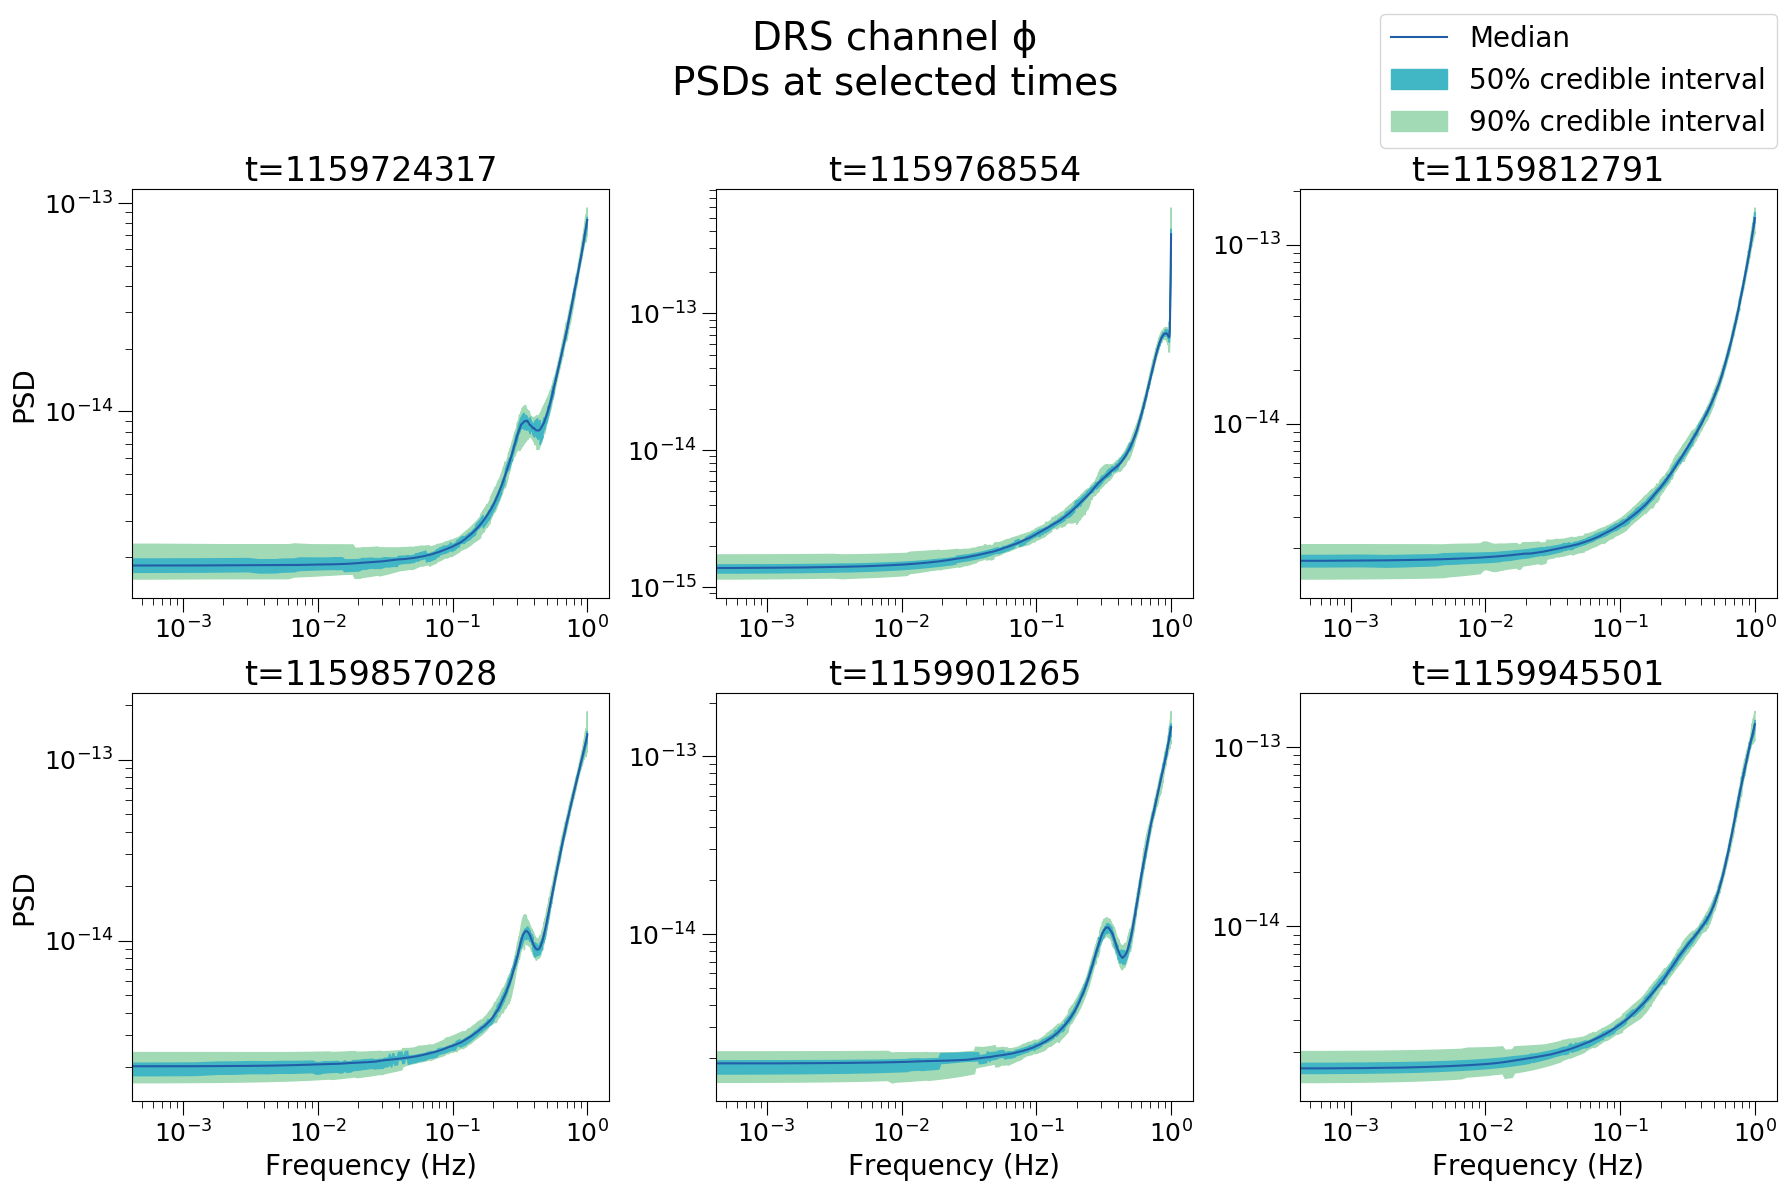
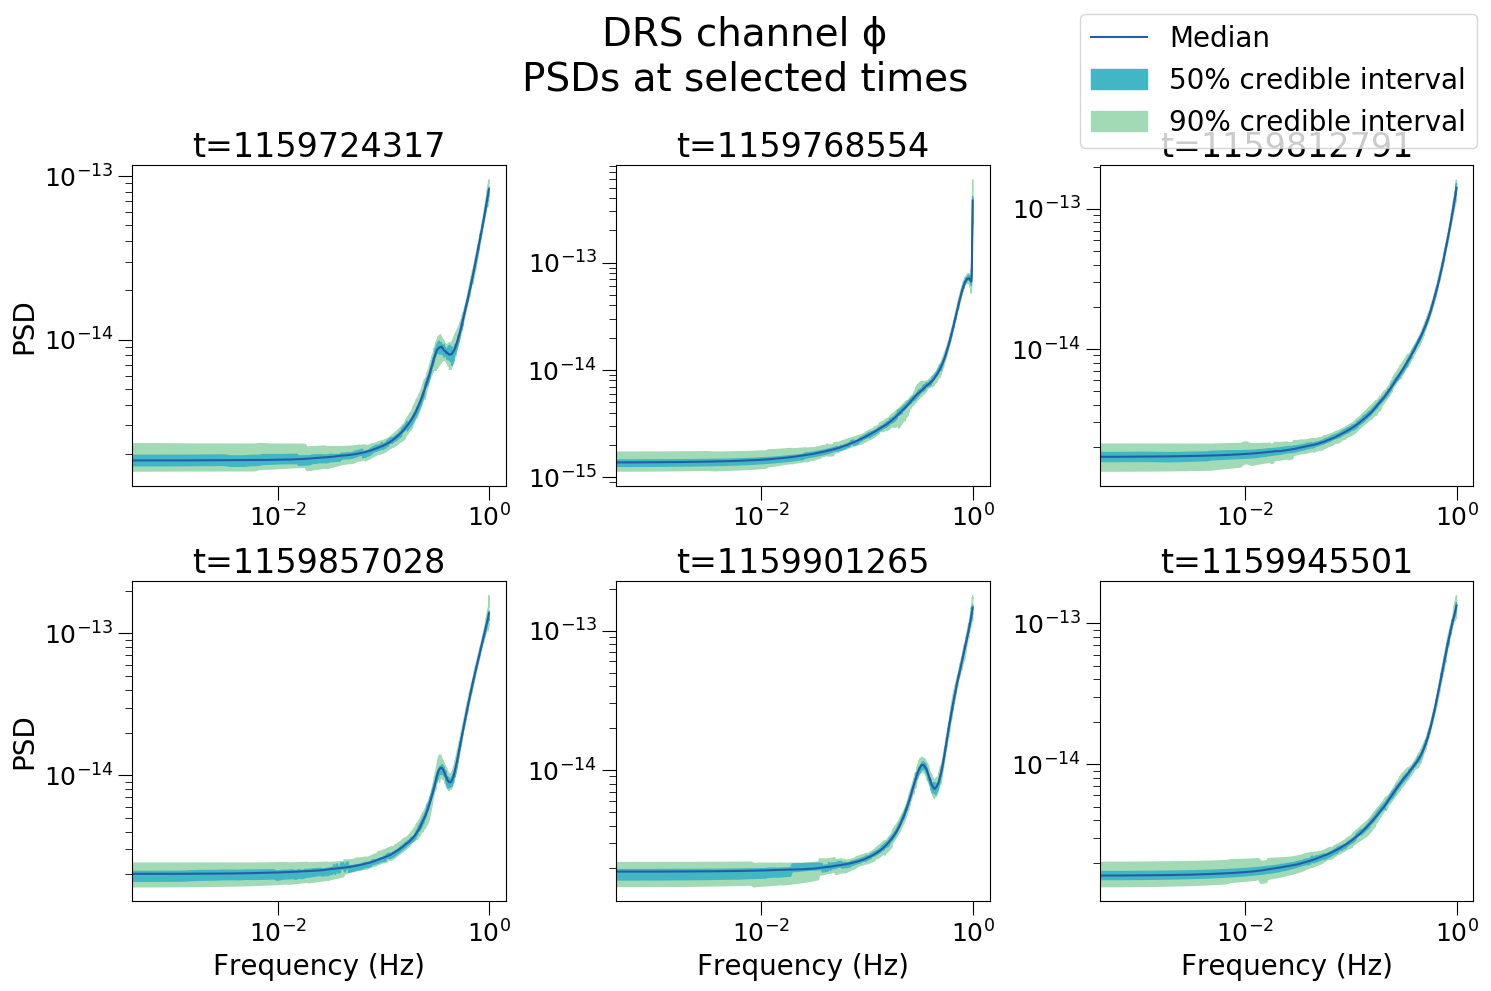
added gridplot to fslice

diff --git a/src/fslice.py b/src/fslice.py
@@ -3,6 +3,7 @@
 import os
 import argparse
 from glob import glob
+import configparser
 
 import numpy as np
 import pandas as pd
@@ -32,6 +33,10 @@ scaled_offset = 0.0025 * spine_pad # Scaled spine_pad
 def main():
     # Argument parser
     args = utils.add_parser('Frequency slice analysis.')
+
+    # Plot config parser
+    config = configparser.ConfigParser()
+    config.read('src/plotconfig.ini')
     
     # Initialize run objects; skip missing directories
     runs = utils.init_runs(args.runs)
@@ -54,6 +59,12 @@ def main():
         
         p = utils.Progress(run.channels, 'Plotting frequency slices...')
         for c, channel in enumerate(run.channels):
+            fig = utils.gridplot(fslice, df, channel, frequencies,
+                    f'{run.mode.upper()} channel {channel}\n' + \
+                            'Power at selected frequencies',
+                    f'Days elapsed since\n{run.start_date} UTC', 'Power', 
+                    config)
+            '''
             # Automatically create grid of axes
             nrows = int(np.floor(float(len(frequencies)) ** 0.5))
             ncols = int(np.ceil(1. * len(frequencies) / nrows))
@@ -87,6 +98,7 @@ def main():
             order = [0, 2, 1]
             fig.legend([handles[i] for i in order], [labels[i] for i in order])
             fig.tight_layout(rect=[0, 0, 1, 0.92])
+            '''
             
             # Save plot
             plot_file = os.path.join(run.plot_dir, f'fslice{c}.png')
@@ -245,7 +257,7 @@ def main():
             # Update progress
             p.update(c)
 
-def fslice(fig, ax, df, run, channel, frequency):
+def fslice(fig, ax, df, channel, frequency):
     '''
     Plots power at a specific frequency over time.
 
@@ -255,11 +267,15 @@ def fslice(fig, ax, df, run, channel, frequency):
       df : DataFrame, the full summary output from import_psd.py
       run : Run object
       channel : str, the channel to investigate
-      frequency : float, the frequency along which to slice the PSD
+      frequency : float, the approximate frequency along which to slice the PSD
     '''
+    # Get exact frequency along which to slice
+    frequency = utils.get_exact_freq(df, frequency)
+    freq_text = f'%s mHz' % float('%.3g' % (frequency * 1000.))
+
     # Isolate given channel
     time_series = df.loc[channel].xs(frequency, level='FREQ')
-    days_elapsed = run.gps2day(time_series.index) # Convert to days elapsed
+    days_elapsed = utils.gps2day(time_series.index) # Convert to days elapsed
     
     # Plot 90% credible interval
     ax.fill_between(days_elapsed, time_series['CI_90_LO'], 
@@ -272,6 +288,9 @@ def fslice(fig, ax, df, run, channel, frequency):
     # Plot median
     ax.plot(days_elapsed, time_series['MEDIAN'], 
             label='Median', color='#88419d')
+
+    # Axis title
+    ax.set_title(freq_text)
             
     # Vertical axis limits
     med = time_series['MEDIAN'].median()

diff --git a/src/utils.py b/src/utils.py
@@ -2,9 +2,11 @@ import sys
 from glob import glob
 import os
 import argparse
+import configparser
 
 import numpy as np
 import pandas as pd
+import matplotlib.pyplot as plt
 from astropy.time import Time
 
 class Progress:
@@ -149,6 +151,11 @@ def init_runs(paths):
     return runs
 
 
+def gps2day(gps_times):
+    ''' Convert numpy array of GPS times to days elapsed since start of list '''
+    return (gps_times - gps_times[0]) / (60*60*24)
+
+
 def get_exact_freq(summary, approx_freqs):
     '''
     Takes an approximate input frequency and returns the closest measured
@@ -191,4 +198,47 @@ def add_parser(description, comparison=True, title=False):
         args.runs = glob(f'data{os.sep}*{os.sep}*{os.sep}')
     
     return args
+
+
+def gridplot(fn, df, channel, iterable, suptitle, xlabel, ylabel, config):
+    # Automatically create grid of axes
+    nrows = int(np.floor(float(len(iterable)) ** 0.5))
+    ncols = int(np.ceil(1. * len(iterable) / nrows))
+    # Set up figure
+    fig = plt.figure(
+            figsize=(config.getfloat('Placement', 'fig_x_scale') * ncols, 
+            config.getfloat('Placement', 'fig_y_scale') * nrows))
+    fig.suptitle(suptitle, fontsize=config.getfloat('Font', 'fig_title_size'))
+    
+    # Subplots
+    for i, item in enumerate(iterable):
+        # Set up subplot
+        ax = fig.add_subplot(nrows, ncols, i+1)
+        
+        # Plot function
+        fn(fig, ax, df, channel, item)
+        
+        # Subplot config
+        ax.set_title(ax.get_title(),
+                fontsize=config.getfloat('Font', 'subplot_title_size'))
+        if i >= len(iterable) - ncols: # x axis label on bottom plots only
+            ax.set_xlabel(xlabel, 
+                    fontsize=config.getfloat('Font', 'ax_label_size'))
+        if i % ncols == 0: # y axis label on left plots only
+            ax.set_ylabel(ylabel, 
+                    fontsize=config.getfloat('Font', 'ax_label_size'))
+        ax.tick_params(axis='both', which='major',
+                labelsize=config.getfloat('Font', 'tick_label_size'),
+                length=config.getfloat('Tick','major_tick_length'))
+        ax.tick_params(axis='both', which='minor', 
+                length=config.getfloat('Tick', 'minor_tick_length'))
+        
+    # Legend
+    handles, labels = ax.get_legend_handles_labels()
+    order = [0, 2, 1] # reorder legend
+    fig.legend([handles[i] for i in order], [labels[i] for i in order],
+            fontsize=config.getfloat('Font', 'legend_label_size'))
+    fig.tight_layout(rect=[0, 0, 1, 0.88])
+    
+    return fig
 

diff --git a/src/tslice.py b/src/tslice.py
@@ -74,7 +74,7 @@ def main():
             fig.tight_layout(rect=[0, 0, 1, 0.88])
             '''
             
-            fig = gridplot(tslice, df, channel, times,
+            fig = utils.gridplot(tslice, df, channel, times,
                     f'{run.mode.upper()} channel {channel}\n' + \
                             'PSDs at selected times',
                     'Frequency (Hz)', 'PSD', config)
@@ -116,49 +116,6 @@ def tslice(fig, ax, df, channel, time):
     ax.set_title(f't={time}')
     ax.set_xscale('log')
     ax.set_yscale('log')
-
-def gridplot(fn, df, channel, iterable, suptitle, xlabel, ylabel, config):
-    # Automatically create grid of axes
-    nrows = int(np.floor(float(len(iterable)) ** 0.5))
-    ncols = int(np.ceil(1. * len(iterable) / nrows))
-    # Set up figure
-    fig = plt.figure(
-            figsize=(config.getfloat('Placement', 'fig_x_scale') * ncols, 
-            config.getfloat('Placement', 'fig_y_scale') * nrows))
-    fig.suptitle(suptitle, fontsize=config['Font']['fig_title_size'])
-    
-    # Subplots
-    for i, item in enumerate(iterable):
-        # Set up subplot
-        ax = fig.add_subplot(nrows, ncols, i+1)
-        
-        # Plot function
-        fn(fig, ax, df, channel, item)
-        
-        # Subplot config
-        ax.set_title(ax.get_title(),
-                fontsize=config.getfloat('Font', 'subplot_title_size'))
-        if i >= len(iterable) - ncols: # x axis label on bottom plots only
-            ax.set_xlabel(xlabel, 
-                    fontsize=config.getfloat('Font', 'ax_label_size'))
-        if i % ncols == 0: # y axis label on left plots only
-            ax.set_ylabel(ylabel, 
-                    fontsize=config.getfloat('Font', 'ax_label_size'))
-        ax.tick_params(axis='both', which='major',
-                labelsize=config.getfloat('Font', 'tick_label_size'),
-                length=config.getfloat('Tick','major_tick_length'))
-        ax.tick_params(axis='both', which='minor', 
-                length=config.getfloat('Tick', 'minor_tick_length'))
-        
-    # Legend
-    handles, labels = ax.get_legend_handles_labels()
-    order = [0, 2, 1] # reorder legend
-    fig.legend([handles[i] for i in order], [labels[i] for i in order],
-            fontsize=config.getfloat('Font', 'legend_label_size'))
-    fig.tight_layout(rect=[0, 0, 1, 0.88])
-    
-    return fig
-
 
 if __name__ == '__main__':
     main()
